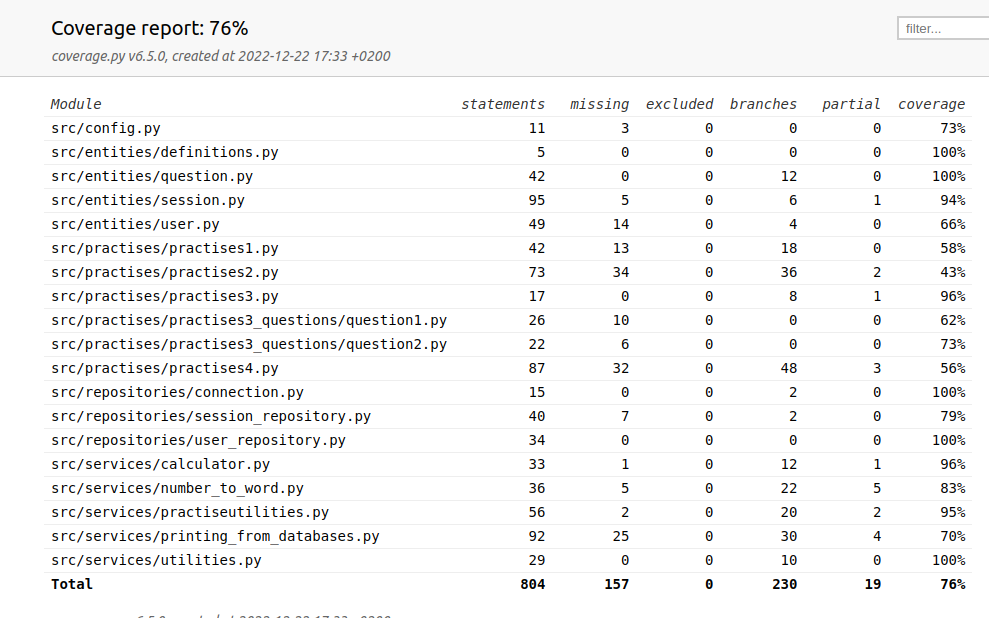
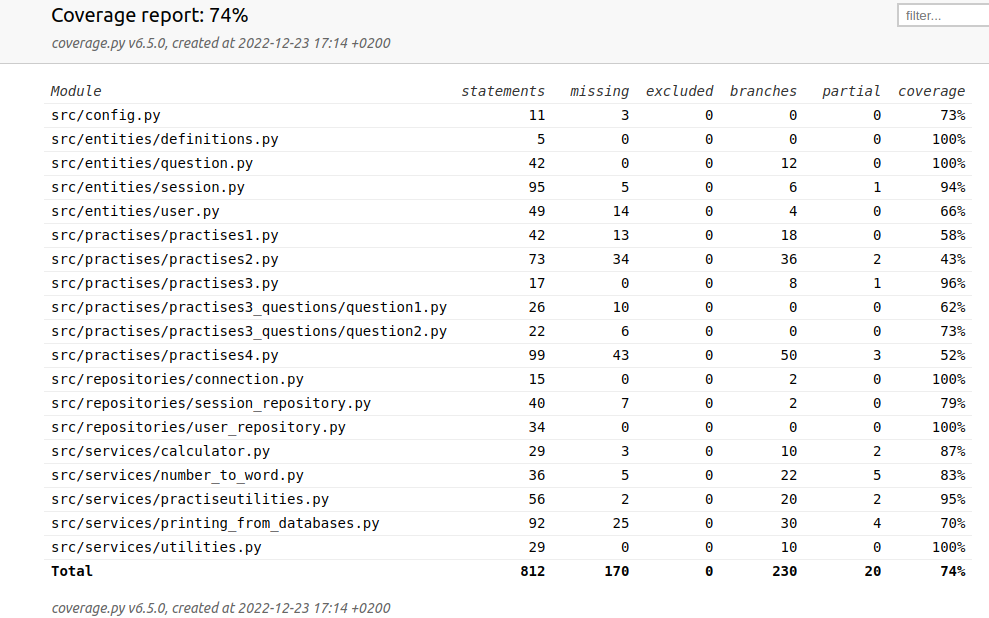
vaatimusmäärittely, nollalla jako bugi korjattu

diff --git a/mathtrainer/src/practises/practises4.py b/mathtrainer/src/practises/practises4.py
@@ -1,6 +1,6 @@
 """Yksinkertaisten muotoa x + a = b, a - x = b, ax = b, a/x = b
 olevien yhtälöiden ratkaisemisen harjoittelu."""
-
+import random
 from services.utilities import is_number, draw_two_integers
 from services.practiseutilities import cancel, correct_answer
 
@@ -63,7 +63,13 @@ def left_value_func(level, constant_in_left, answer_given):
         return answer_given / constant_in_left
 
     if level == 6:
-        return constant_in_left / answer_given
+        try:
+            value = constant_in_left / answer_given
+        except ZeroDivisionError:
+            print("Nollalla ei voi jakaa")
+            value = None
+
+        return value
 
     return None
 
@@ -97,7 +103,12 @@ def feedback_left_func(level, constant_in_left, answer_given):
         return f"x/{a} = {x}/{a} = {x/a}"
 
     if level == 6:
-        return f"{a}/x = {a}/{x} = {a/x}"
+        try:
+            feedback_string = f"{a}/x = {a}/{x} = {a/x}"
+        except ZeroDivisionError:
+            feedback_string = "Nollalla ei voi jakaa."
+
+        return feedback_string
 
     return None
 
@@ -130,6 +141,8 @@ def parameters(level):
 
     if level == 5:
         random_integer1, random_integer2 = draw_two_integers(-10, 10, -10, 10)
+        if random_integer1 == 0:
+            random_integer1 = random.randint(-10,-1)
 
     if level == 6:
         random_temp, random_integer2 = draw_two_integers(-10, 10, -10, 10)

diff --git a/mathtrainer/src/services/calculator.py b/mathtrainer/src/services/calculator.py
@@ -35,23 +35,19 @@ def calculator(expr):
         time.sleep(1)
         return value
 
-    except KeyError:
+    except ZeroDivisionError:
+
+        print("Nollalla ei voi jakaa.")
+        time.sleep(1)
+
+    except (KeyError, SyntaxError, TypeError):
 
         print("Sallitut laskutoimitukset +, -, *, / ja luvun edessä -")
+        print(f"Lauseketta {expr} ei voi arvioida.")
         time.sleep(1)
-        return None
 
-    except SyntaxError:
+    return None
 
-        print(f"Lauseketta {expr} ei voi arvioida")
-        time.sleep(1)
-        return None
-
-    except TypeError:
-
-        print("Lopetus")
-        time.sleep(1)
-        return None
 
 def eval_(node):
     """Käsittelee rekursiivisesti lauseketta."""

diff --git a/mathtrainer/dokumentaatio/vaatimusmaarittely.md b/mathtrainer/dokumentaatio/vaatimusmaarittely.md
@@ -1,0 +1,48 @@
+# Vaatimusmäärittely
+
+## Sovelluksen tarkoitus
+
+Sovelluksen avulla käyttäjät voivat harjoitella peruskoulun matemaattisia tehtäviä peruslaskutoimituksista yhtälöiden ratkaisemiseen.
+
+Pääpaino on sanallisissa matemaattisissa peruslaskutoimituksia sisältävissä tehtävissä. Suomea vieraana kieltä puhuville on suomenkielisten matemaattisten ilmausten ymmärtämistä harjoittavia tehtäviä.
+
+
+## Käyttäjät
+
+_Normaali käyttäjä_ pystyy kirjautumaan järjestelmään tarvittaessa luoden uuden tunnuksen.
+
+
+_Pääkäyttäjä_ pystyy tulostamaan erilaisia yhteenvetoja ja tilastoja käyttäjien harjoitteluista. Pääkäyttäjä pystyy myös poistamaan käyttäjätunnuksen ja siihen liittyvät tiedot harjoittelusta.
+
+## Käyttöliittymä
+
+Ohjelmaa aloitettaessa kysytään tunnusta. Jos tunnusta ei vielä ole, se luodaan tässä vaiheessa. _Tehty._
+
+Tämän jälkeen avautuu valikko, jossa on valittavissa eri harjoituksia. Valikosta voi avat myös pääkäyttäjälle tarkoitetun ylläpitotoimintojen valikon. Jokaiselle harjoitukselle on oma käyttöliittymä, jossa huomioitu tehtävien luonne.
+
+## Perusversio
+
+Ohjelmarunkoon on helppo lisätä erilaisia harjoituskokonaisuuksia ja kasvattaa harjoituskokonaisuuden tehtävien lukumäärää. Perusversiossa on suomea vieraana kielenä puhuville tarkoitettu harjoitus, jossa suomeksi kirjoitettua lukuja ilmaistaan numeroina, ja toinen harjoitus, jossa esitetään yhteen-, vähennys-, kerto- ja jakolaskutehtäviä sanallisesti. Kolmas harjoitus on esimerkki parista sanallisesta matematiikan tehtävästä. Neljäs harjoitus johdattaa yksinkertaisten yhtälöiden ratkaisemiseen.
+
+Kun käyttäjä kirjautuu järjestelmään vanhalla tunnuksella, hän näkee tilastotietoa harjoitteluistaan: alkuvaiheessa harjoituskokonaisuudet, mitkä hän aloittanut ja mitkä tehnyt loppuun, sekä kuinka monta yksittäistä tehtävää hän on yrittänyt tehdä ja kuinka moni on mennyt oikein.
+
+Harjoituskokonaisuudessa on tasoja. Käyttäjä aloittaa helpoimmista tehtävistä. Harjoituskokonaisuudessa on asetettu ehdot sille, miten siirrytään tasolta ylemmäs. Ehdot voivat vaihdella eri tasoilla.
+
+Harjoituskokonaisuuden yhteydessä pidetään kirjaa siitä, miten tehtävät etenevät ja reaaliaikainen tilanne näytetään käyttäjälle. Kun harjoittelu lopetetaan, tiedot tallennetaan tietokantaan ja käyttäjän kirjautuessa sovellukseen vanhana käyttäjänä hänen tietonsa haetaan tietokannasta.
+
+Kun käyttäjä on tehnyt kaikki vaativamman tason tehtävät, harjoituskokonaisuus on tehty, eikä käyttäjä voi enää samalla tunnuksella siihen palata. Käyttäjä voi kuitenkin tehdä uuden tunnuksen ja palata jo tekemiinsä harjoituksiin.
+
+
+## Jatkokehittelyä
+
+Ensimmäinen jatkotavoite on toteuttaa ohjelman pääkäyttöliitymä ja yksittäisten harjoitusten käyttöliittymä graafisena käyttöliittymänä. Toinen välitön jatkotavoite on yhdenmukaistaa harjoitusten koodaustapaa niin, että se vastaa nykyisen harjoituksen 3 tapaa.
+
+Tämänä jälkeen on tarkoitus luoda erityisesti sellaisia tehtävämuotoja, jotka eroavat Moodlen tarjoamista ja testata niiden toimivuutta (oikeastaan kiinnostavuutta) sopivalla kohderyhmällä. Kun on löydetty toimivia harjoittelumuotoja, on ajatuksena toteuttaa lisää harjoittelukokonaisuuksia kirjoittamani oppimateriaalin [Matematiikan perustiedot](https://homepages.tuni.fi/ari.virtanen/peruskoulumatikkaa.pdf) mukaisesti.
+
+Jos tämä etenee suotuisasti, niin ohjelmasta on tarkoitus tehdä web-sovellus (harrastuksena tai ehkä jonkun toisen opintojakson yhteydessä). Välitavoitteena on tehdä ohjelmasta versio, joka toimii Windows-koneissa ns. standalone sovelluksena. Tarkoitus on myös kehittää pääkäyttäjälle apuohjelmia, jotka osittain automatisoivat uusien harjoitustehtävien lisäämistä.
+
+
+
+
+
+

diff --git a/mathtrainer/dokumentaatio/testaus.md b/mathtrainer/dokumentaatio/testaus.md
@@ -24,7 +24,7 @@ Testaamisen ulkopuolelle on jätetty .coveragerc tiedoston rivin
 
 > omit = src/**/__init__.py,src/tests/**,src/ui/**,src/index.py, src/build.py, src/initialize_databases.py
 
-mukaiset tiedostot. Näitä lukuun ottamatta haarautumakattavuus on 76%.
+mukaiset tiedostot. Näitä lukuun ottamatta haarautumakattavuus on 74%.
 
 ## Järjestelmätestaus
 

diff --git a/mathtrainer/dokumentaatio/tuntikirjanpito.md b/mathtrainer/dokumentaatio/tuntikirjanpito.md
@@ -46,4 +46,5 @@ tehtävää. |
 |20.12.|4| dokumentaatiota, testien koodaamista|
 |21.12.|2| testit loppuun, testausdokumentin viimeistely|
 |22.12.|4| bugin korjaus, testien korjailu, koodin siistiminen, docstringit loppuun|
-| yht |117|
+|23.12.|2| vaatimusmäärittelyn päivittäminen, ohjelman manuaalista testausta, nollalla jako -bugin korjaus|
+| yht |119|
